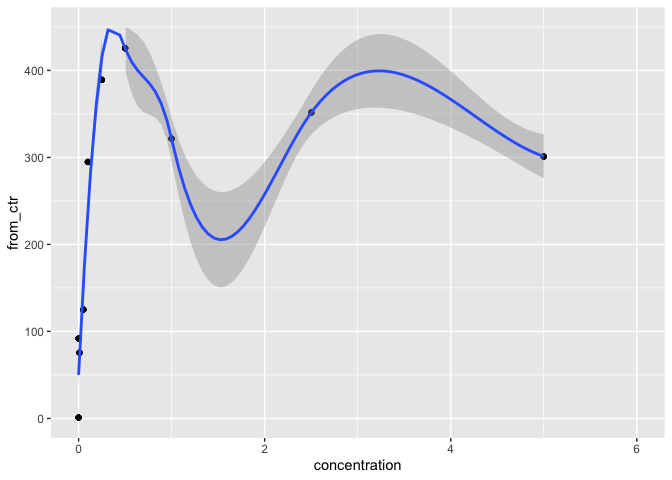
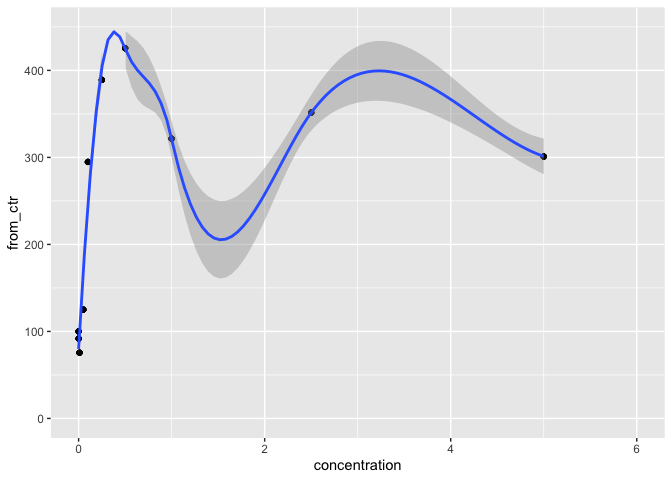
updates

diff --git a/HW_1.md b/HW_1.md
@@ -99,13 +99,13 @@ summary(cyto_death)
     ##  Mean   :20.353   Mean   :20.273   Mean   :19.731   Mean   :20.345  
     ##  3rd Qu.:29.160   3rd Qu.:28.153   3rd Qu.:27.656   3rd Qu.:28.268  
     ##  Max.   :40.276   Max.   :38.021   Max.   :44.000   Max.   :34.972  
-    ##     from_ctr    
-    ##  Min.   :  1.0  
-    ##  1st Qu.:100.0  
-    ##  Median :297.9  
-    ##  Mean   :237.6  
-    ##  3rd Qu.:344.0  
-    ##  Max.   :425.5
+    ##     from_ctr     
+    ##  Min.   : 75.49  
+    ##  1st Qu.:106.26  
+    ##  Median :297.88  
+    ##  Mean   :247.55  
+    ##  3rd Qu.:343.95  
+    ##  Max.   :425.52
 
 ``` r
 cyto_tidy_death = 
@@ -119,10 +119,10 @@ summary(cyto_tidy_death)
 ```
 
     ##  concentration    avg_cell_death      from_ctr       replicates       
-    ##  Min.   :0.0000   Min.   : 6.204   Min.   :  1.00   Length:60         
-    ##  1st Qu.:0.0100   1st Qu.: 8.219   1st Qu.: 91.71   Class :character  
+    ##  Min.   :0.0000   Min.   : 6.204   Min.   : 75.49   Length:60         
+    ##  1st Qu.:0.0100   1st Qu.: 8.219   1st Qu.:100.00   Class :character  
     ##  Median :0.1750   Median :24.481   Median :297.88   Mode  :character  
-    ##  Mean   :0.9411   Mean   :20.345   Mean   :237.65                     
+    ##  Mean   :0.9411   Mean   :20.345   Mean   :247.55                     
     ##  3rd Qu.:1.0000   3rd Qu.:28.884   3rd Qu.:351.45                     
     ##  Max.   :5.0000   Max.   :34.972   Max.   :425.52                     
     ##       rep        
@@ -173,14 +173,12 @@ cyto_death_plot_3
 
     ## `geom_smooth()` using method = 'loess' and formula 'y ~ x'
 
-    ## Warning: Removed 1 rows containing missing values (geom_smooth).
-
 ![](HW_1_files/figure-gfm/unnamed-chunk-2-3.png)<!-- -->
 
 ``` r
 cv_mean <- cyto_tidy_death %>%
  group_by(concentration)%>%
-  summarise(mean = mean(rep), #plate to plate variation
+  summarise(mean = mean(rep), 
             cv = cv(rep)) %>%
  knitr::kable()
   cv_mean
@@ -200,28 +198,29 @@ cv_mean <- cyto_tidy_death %>%
 |         5.000 | 24.735796 | 14.80658 |
 
 ``` r
-regress_cyto<- drm(rep ~concentration, data = cyto_tidy_death, fct = LL.4())
+regress_cyto<- drm(avg_cell_death ~concentration, data = cyto_tidy_death, fct = LL.4(names = c("Slope","Lower Limit", "Upper Limit", "AC50" )))
 
 
-regress_cyto <- drm(rep ~concentration, data = cyto_tidy_death, fct = LL.3(names = c("Slope", "Upper Limit", "LC50" )))
+
 summary(regress_cyto)
 ```
 
     ## 
-    ## Model fitted: Log-logistic (ED50 as parameter) with lower limit at 0 (3 parms)
+    ## Model fitted: Log-logistic (ED50 as parameter) (4 parms)
     ## 
     ## Parameter estimates:
     ## 
     ##                           Estimate Std. Error t-value   p-value    
-    ## Slope:(Intercept)       -3.2234353  1.1921681 -2.7038  0.009019 ** 
-    ## Upper Limit:(Intercept) 29.4058373  1.3221236 22.2414 < 2.2e-16 ***
-    ## LC50:(Intercept)         0.0605162  0.0073582  8.2243 2.918e-11 ***
+    ## Slope:(Intercept)       -4.5811715  0.7947123 -5.7646 3.660e-07 ***
+    ## Lower Limit:(Intercept)  7.3587678  0.6522872 11.2815 4.638e-16 ***
+    ## Upper Limit:(Intercept) 29.3922745  0.5076047 57.9039 < 2.2e-16 ***
+    ## AC50:(Intercept)         0.0764826  0.0049467 15.4612 < 2.2e-16 ***
     ## ---
     ## Signif. codes:  0 '***' 0.001 '**' 0.01 '*' 0.05 '.' 0.1 ' ' 1
     ## 
     ## Residual standard error:
     ## 
-    ##  7.104517 (57 degrees of freedom)
+    ##  2.764221 (56 degrees of freedom)
 
 ``` r
 #Compute 95% CI for my IC50
@@ -233,14 +232,14 @@ ED(regress_cyto, 50, interval = "delta")%>%
     ## Estimated effective doses
     ## 
     ##         Estimate Std. Error     Lower     Upper
-    ## e:1:50 0.0605162  0.0073582 0.0457815 0.0752508
+    ## e:1:50 0.0764826  0.0049467 0.0665731 0.0863921
 
 |        |  Estimate | Std. Error |     Lower |     Upper |
 | ------ | --------: | ---------: | --------: | --------: |
-| e:1:50 | 0.0605162 |  0.0073582 | 0.0457815 | 0.0752508 |
+| e:1:50 | 0.0764826 |  0.0049467 | 0.0665731 | 0.0863921 |
 
 ``` r
- plot(regress_cyto, xlab = "Concentration (μM)", ylab = "Death (% from control)", col = "red", main = "Dose Response Curve for Rotenone")
+plot(regress_cyto, xlab = "Concentration (μM)", ylab = "Death (% from control)", col = "red", main = "Dose Response Curve for Rotenone")
 ```
 
 ![](HW_1_files/figure-gfm/unnamed-chunk-5-1.png)<!-- -->
@@ -251,6 +250,6 @@ ED(regress_cyto, 50, interval = "delta")%>%
 
     ## Lack-of-fit test
     ## 
-    ##           ModelDf    RSS Df F value p value
-    ## ANOVA          50 1482.4                   
-    ## DRC model      57 2877.0  7  6.7197  0.0000
+    ##           ModelDf    RSS Df    F value    p value
+    ## ANOVA          50   0.00                         
+    ## DRC model      56 427.89  6 3.7923e+29 0.0000e+00
